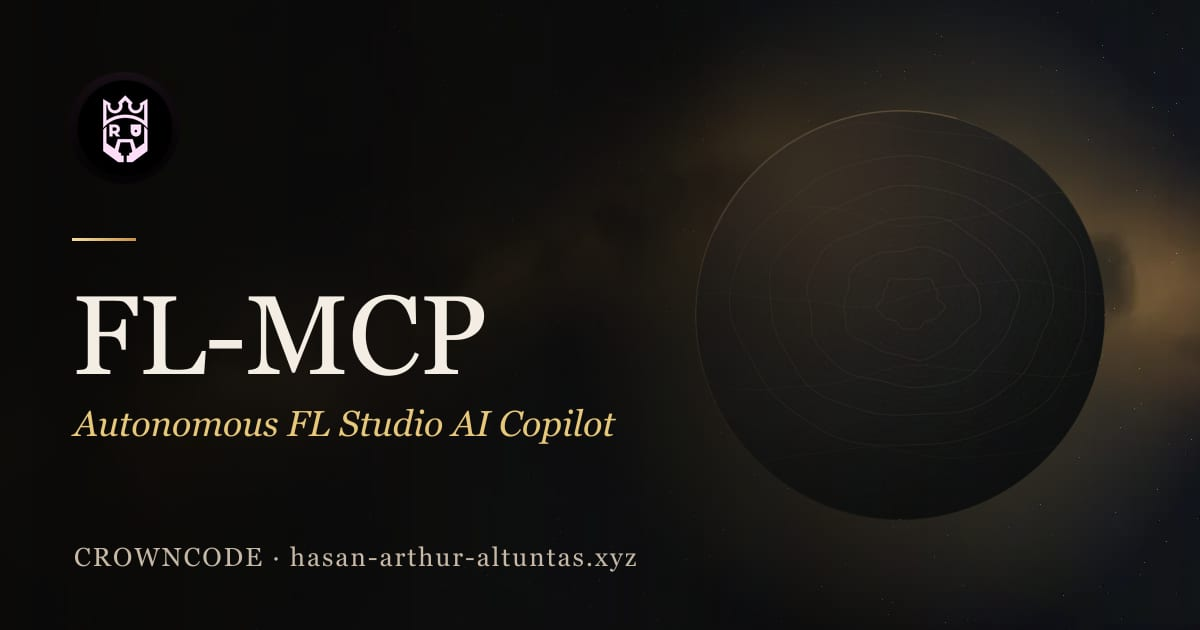
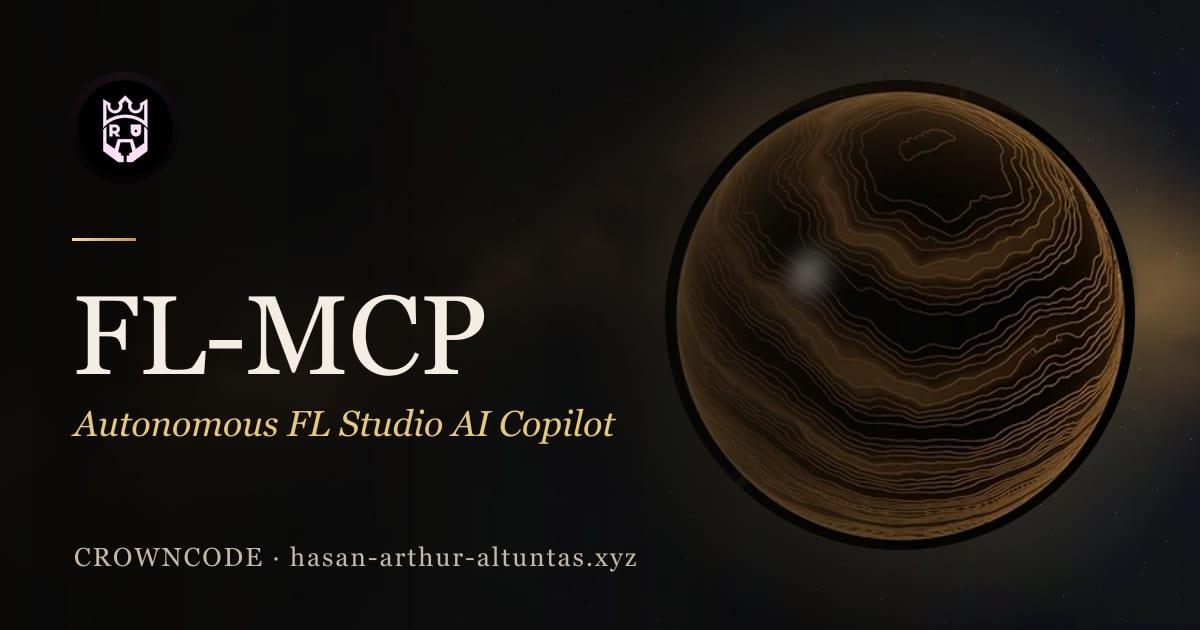
feat: add showroom worlds configuration and og image for fl-mcp

Changed region(s): [[0.555, 0.1206, 0.9558, 0.8746]]

diff --git a/platform/config/showroom-worlds.ts b/platform/config/showroom-worlds.ts
@@ -149,7 +149,7 @@ export function worldSector(entry: Pick<ProductEntry, 'id' | 'localeKey'>, langu
 
 /** Worlds that have a rendered thumbnail (`scripts/capture-atlas-assets.py`); a test checks this against the files. */
 export const RENDERED_WORLDS: ReadonlySet<string> = new Set([
-  'ai-music-detection', 'ml-toolkit', 'crown-fortune', 'crown-dreams', 'crown-commend', 'crown-vote', 'noir-grain', 'kognita',
+  'ai-music-detection', 'ml-toolkit', 'crown-fortune', 'crown-dreams', 'crown-commend', 'crown-vote', 'noir-grain', 'fl-mcp', 'kognita',
 ])
 
 /** The planet picture of a world; a project that has none yet gets the generic one, so a new project never shows a broken image. */
